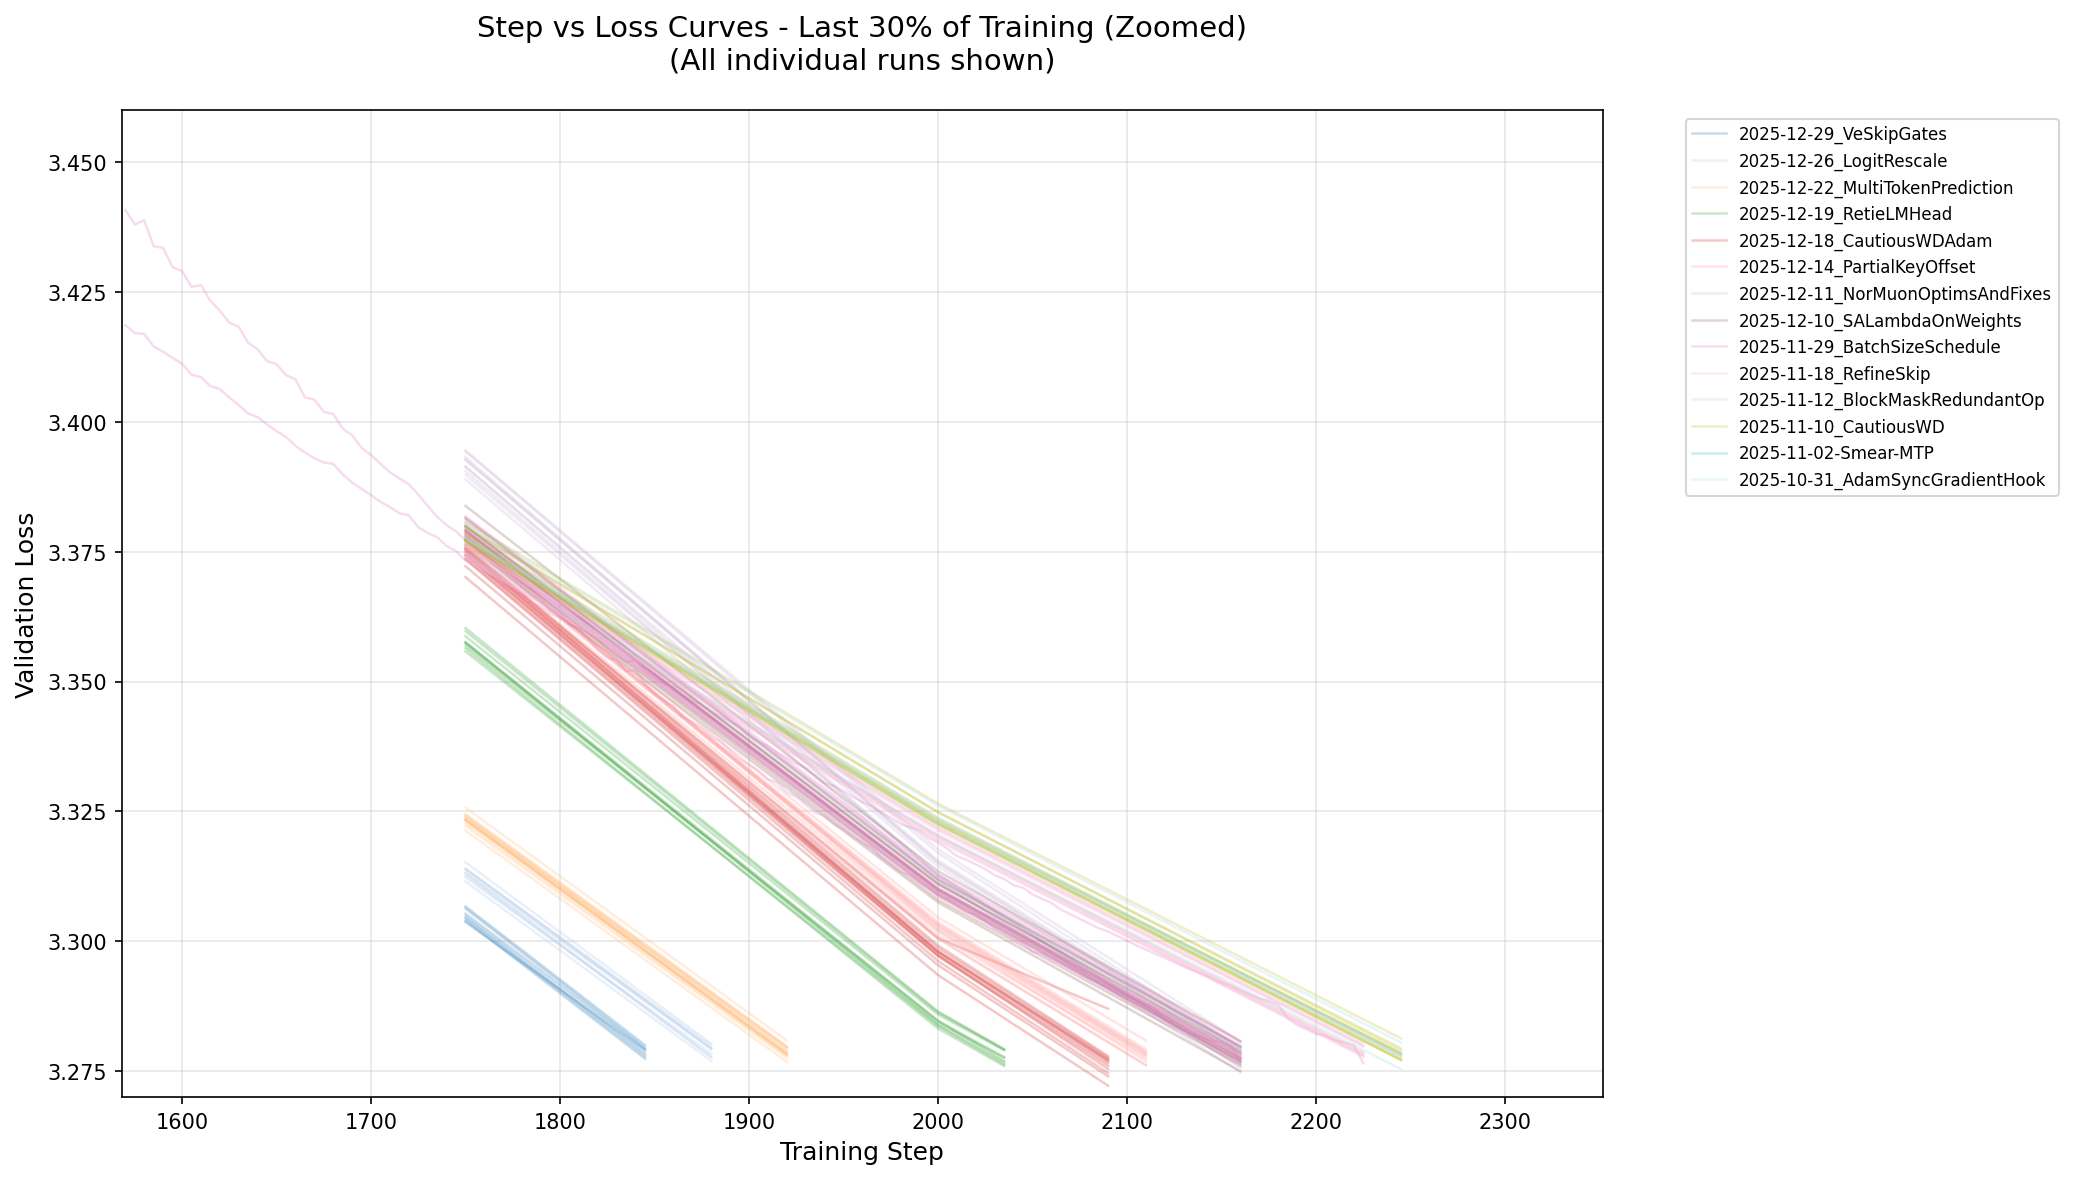
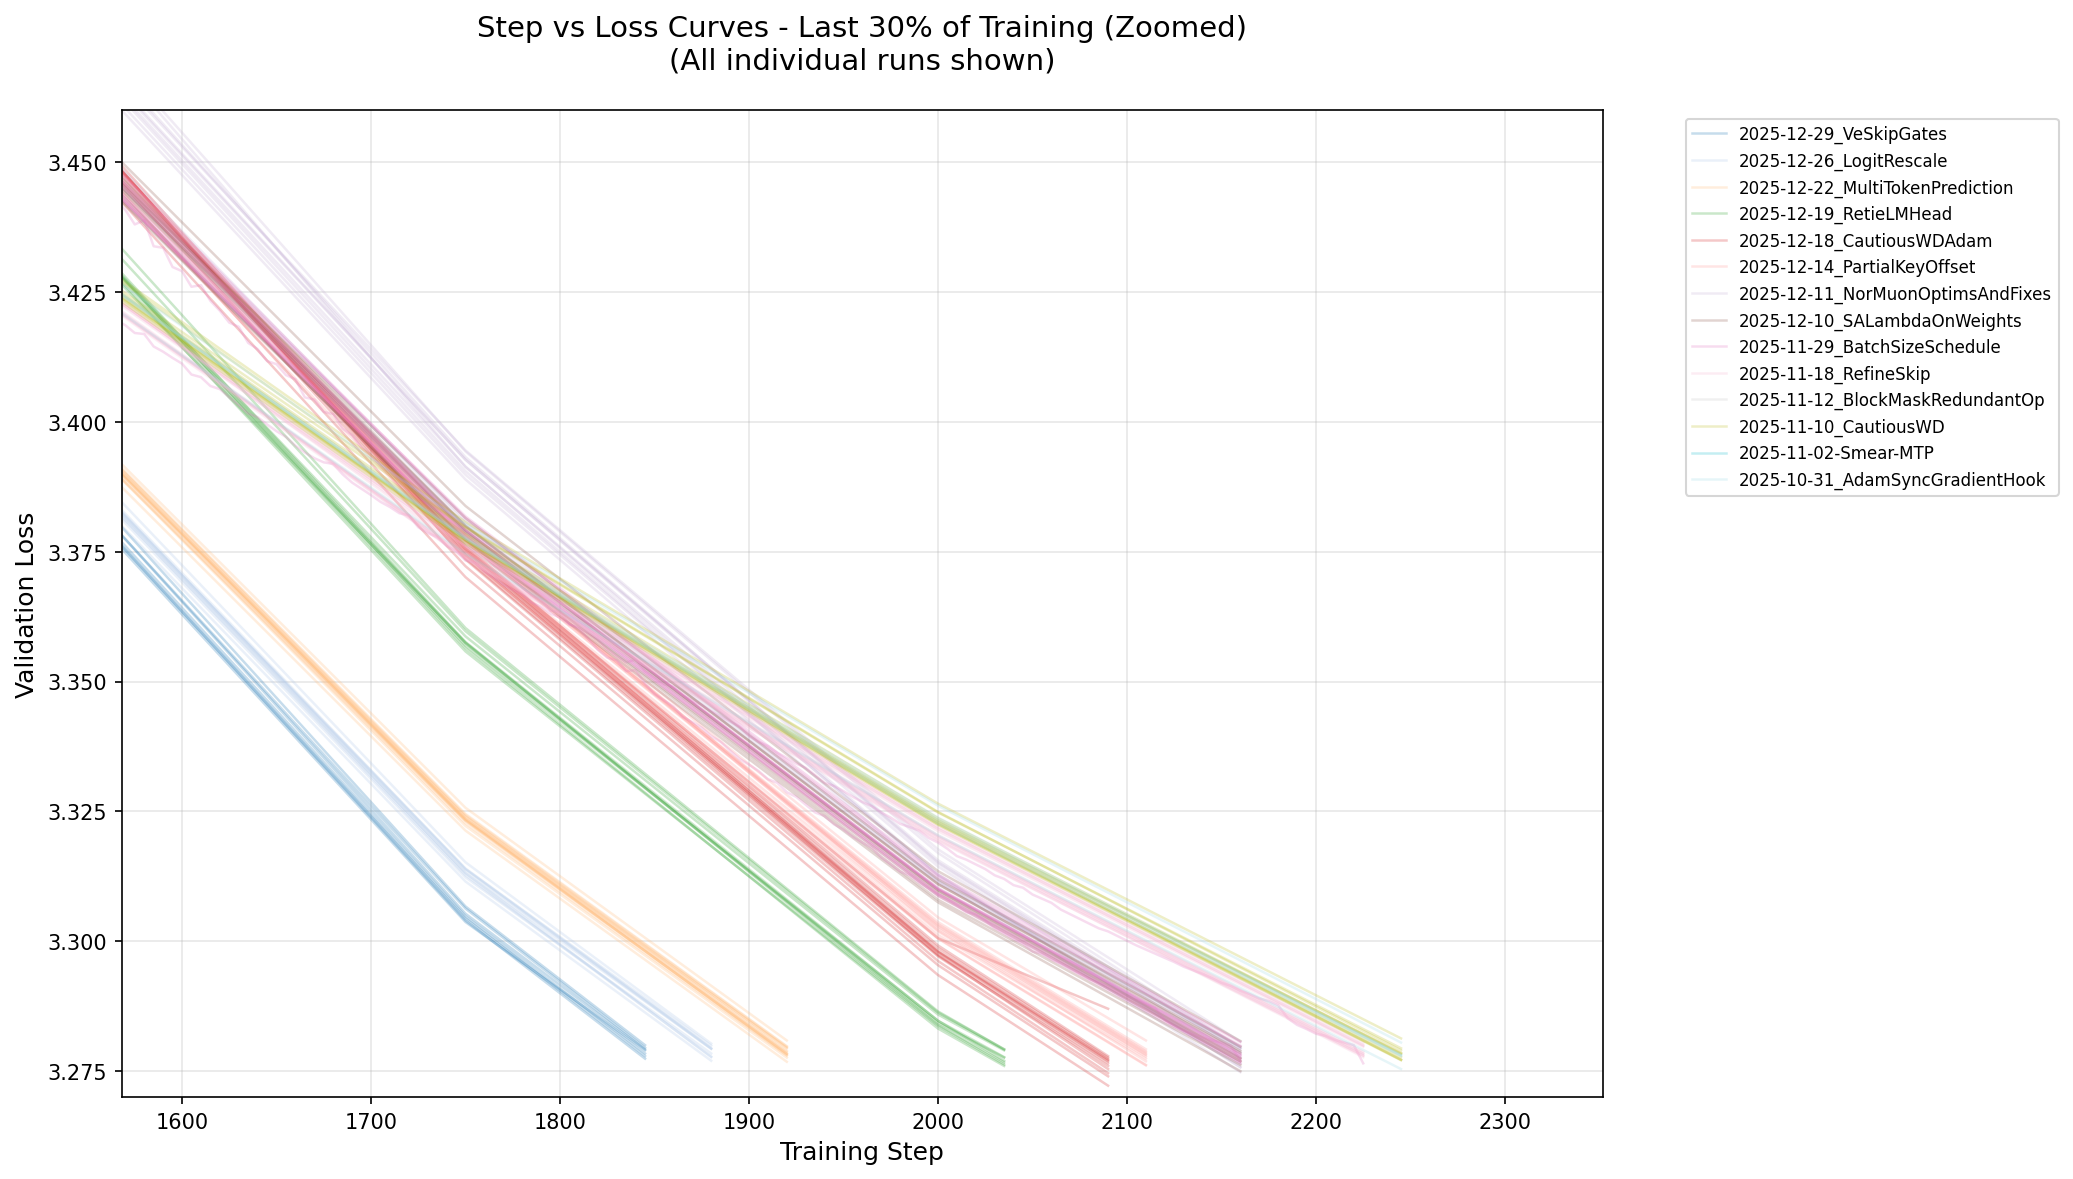
Plot full data instead of filtering - lines now extend to edges

Changed region(s): [[0.0617, 0.1527, 0.247, 0.5191], [0.0617, 0.3969, 0.247, 0.7634], [0.2161, 0.5191, 0.247, 0.5496]]

diff --git a/analyze_speedruns.py b/analyze_speedruns.py
@@ -168,7 +168,7 @@ def main():
     typical_max_step = final_steps_per_speedrun.quantile(0.75)
     min_step_zoom = typical_max_step * 0.7  # Start at 70% instead of 50%
 
-    # Plot each run (only last 50% of data)
+    # Plot each run (plot full data, zoom with axis limits)
     for i, speedrun in enumerate(speedruns):
         speedrun_data = df[df['speedrun'] == speedrun]
 
@@ -177,12 +177,10 @@ def main():
 
         for j, run_id in enumerate(run_ids):
             run_data = speedrun_data[speedrun_data['run_id'] == run_id].sort_values('step')
-            run_data_zoom = run_data[run_data['step'] >= min_step_zoom]
-            if len(run_data_zoom) > 0:
-                # Add label only to first run of each speedrun for legend
-                label = speedrun if j == 0 else None
-                ax.plot(run_data_zoom['step'], run_data_zoom['val_loss'],
-                       color=colors[i], alpha=0.25, linewidth=1.2, label=label)
+            # Add label only to first run of each speedrun for legend
+            label = speedrun if j == 0 else None
+            ax.plot(run_data['step'], run_data['val_loss'],
+                   color=colors[i], alpha=0.25, linewidth=1.2, label=label)
 
     ax.set_xlabel('Training Step', fontsize=12)
     ax.set_ylabel('Validation Loss', fontsize=12)
